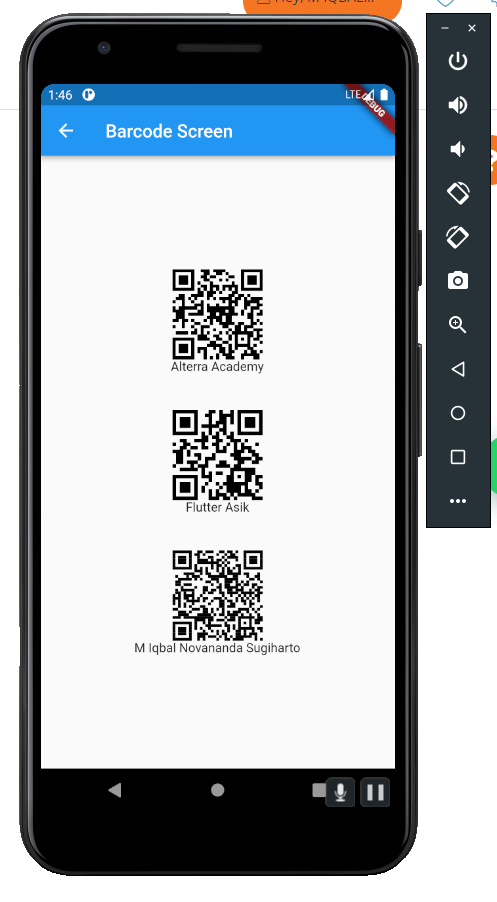
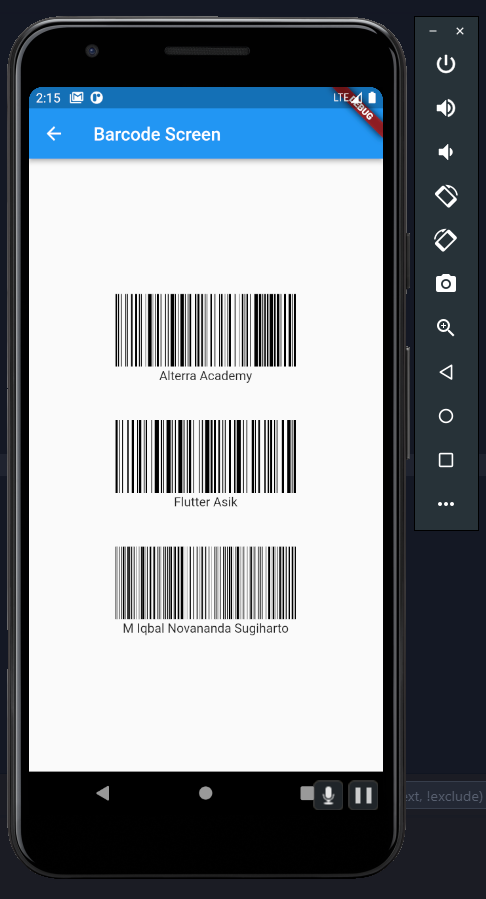
finish barcode

diff --git a/14_Flutter CLI and Package Management/Praktikum/usepackage/lib/screens/barcode_screen.dart b/14_Flutter CLI and Package Management/Praktikum/usepackage/lib/screens/barcode_screen.dart
@@ -41,14 +41,11 @@ class NewBarcodeWidget extends StatelessWidget {
       child: Column(
         children: [
           BarcodeWidget(
-            barcode: Barcode.qrCode(
-              errorCorrectLevel: BarcodeQRCorrectionLevel.high,
-            ),
+            barcode: Barcode.code128(),
             data: data,
-            width: 100,
+            width: 200,
             height: 100,
           ),
-          Text(data)
         ],
       ),
     );
